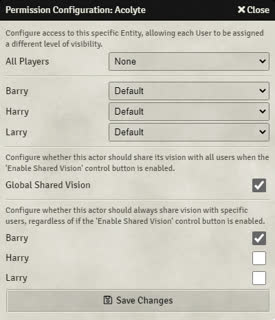
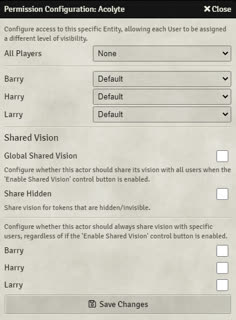
v1.0.3

diff --git a/templates/helpMenu.html b/templates/helpMenu.html
@@ -7,7 +7,7 @@
         <br>
         Besides sharing the vision of all players tokens with all players, you could specify with what player the actor should share its vision. This could be useful if a player controls multiple tokens, such as familiars.<br>
         <br>
-        A control button allows you to easily toggle vision sharing for all players for specified actors (Global Shared Vision). The reasoning behind this is that, when dugeon delving, the player in the back of the marching order will miss out on all the awesome stuff that's happening at the front. The GM might have prepared an awesome cut-scene, with vivid descriptions, but the wizard at the back isn't in the same room yet as the fighter in the front, so the wizard's player is missing out on all the action!<br>
+        A control button allows you to easily toggle vision sharing for all players for specified actors (Global Shared Vision). The reasoning behind this is that, when dungeon delving, the player in the back of the marching order will miss out on all the awesome stuff that's happening at the front. The GM might have prepared an awesome cut-scene, with vivid descriptions, but the wizard at the back isn't in the same room yet as the fighter in the front, so the wizard's player is missing out on all the action!<br>
         Shared Vision allows the GM to press a button, and the vision between specified tokens will be shared with all players, so everyone gets to enjoy the cool stuff at the front.<br>
 
         <h1>Instructions</h1>
@@ -29,8 +29,11 @@
         Below that you'll find a checkbox next to each (non GM) user's name, checking these boxes will always share that actors vision with the specific users, 
         regardless of whether 'Global Shared Vision' is enabled.<br>
         <br>
-        Players do not need to have any permissions in order for the tokens to share their view. This will work if the token is an NPC or even if it is invisible.<br>
-        You could, for example, add invisible tokens to a spot where you want everyone to be able to see.
+        Ticking the 'Share Hidden' checkbox will result in the actor sharing its vision even if the actor's tokens are hidden/invisible.<br>
+        You could, for example, add invisible tokens to a spot where you want everyone to be able to see.<br>
+        <br>
+        Players do not need to have any permissions in order for the tokens to share their view. This will work if the token is an NPC.<br>
+        
 
         <BR CLEAR="right" />
 

diff --git a/src/misc.js b/src/misc.js
@@ -34,6 +34,10 @@ function isVisionSourceOverride() {
 
   let sharedVision = false;
   if (game.user.isGM == false && this.actor != null) {
+    if (this.data.hidden) {
+      if ( (midiQOL && this.actor?.hasPerm(game.user, "OWNER")) == false && this.actor.data.flags.SharedVision?.hidden == false) return false;
+    }
+
     if (game.settings.get(MODULE.moduleName,'enable')) {
       sharedVision = this.actor.data.flags.SharedVision != undefined ? this.actor.data.flags.SharedVision.enable : false; 
     }
@@ -99,15 +103,23 @@ export function onRenderPermissionControl(permissionControl,html){
     if (actor.entity != "Actor") return;
     let btnEnable = actor.getFlag('SharedVision','enable');
     if (btnEnable == undefined) btnEnable = false;
+    let hidden = actor.getFlag('SharedVision','hidden');
     let userSetting = actor.getFlag('SharedVision','userSetting');
   
     let contents = `
       <hr>
-      <p class="notes">${game.i18n.localize("SharedVision.ActorConf.Global.Note")}</p>
+      <h3>Shared Vision</h3>
       <div class="form-group">
         <label>${game.i18n.localize("SharedVision.ActorConf.Global.Label")}</label>
         <input id="sharedVisionButton" type="checkbox" name="sharedVisionButton" data-dtype="Boolean" ${btnEnable ? 'checked' : ''}>
       </div>
+      <p class="notes">${game.i18n.localize("SharedVision.ActorConf.Global.Note")}</p>
+
+      <div class="form-group">
+        <label>${game.i18n.localize("SharedVision.ActorConf.Hidden.Label")}</label>
+        <input id="sharedVisionHiddenButton" type="checkbox" name="sharedVisionHiddenButton" data-dtype="Boolean" ${hidden ? 'checked' : ''}>
+      </div>
+      <p class="notes">${game.i18n.localize("SharedVision.ActorConf.Hidden.Note")}</p>
       <hr>
       <p class="notes">${game.i18n.localize("SharedVision.ActorConf.User.Note")}</p>
       
@@ -143,6 +155,10 @@ export async function onClosePermissionControl(permissionControl,html){
     const btnEnable = html.find("input[name = 'sharedVisionButton']")[0].checked;
 
     await actor.setFlag('SharedVision','enable',btnEnable);
+
+    const hidden = html.find("input[name = 'sharedVisionHiddenButton']")[0].checked;
+
+    await actor.setFlag('SharedVision','hidden',hidden);
 
     let userSetting = [];
     const users = game.users.entities;

diff --git a/sharedvision.js b/sharedvision.js
@@ -1,6 +1,7 @@
 import * as CBUTTONS from "./src/controlButtons.js";
 import * as MISC from "./src/misc.js";
 import * as EXTERNAL from "./src/externalModules.js";
+import * as SOCKET from "./src/socket.js";
 
 export const moduleName = "SharedVision";
 
@@ -10,6 +11,7 @@ Hooks.on('renderPermissionControl', (permissionControl,html,data) =>  { MISC.onR
 Hooks.on('closePermissionControl', (permissionControl,html)       =>  { MISC.onClosePermissionControl(permissionControl,html) });
 Hooks.on('setShareVision',(data)                                  =>  { MISC.onSetShareVision(data) });
 Hooks.on('canvasReady',()                                         =>  { MISC.onCanvasReady() });
+Hooks.on('updateToken',()                                         =>  { SOCKET.emitSharedVision(game.settings.get(moduleName,'enable'))});
 
 Hooks.on('controlToken',(token,controlled)                        =>  { EXTERNAL.triggerHappy_ControlToken(token,controlled) });
 Hooks.on('preUpdateToken',(scene, embedded, update)               =>  { EXTERNAL.triggerHappy_onPreUpdateToken(scene, embedded, update) });

diff --git a/README.md b/README.md
@@ -5,7 +5,7 @@ Shared Vision allows you to configure actors so they will always share their vis
 <br>
 Besides sharing the vision of all players tokens with all players, you could specify with what player the actor should share its vision. This could be useful if a player controls multiple tokens, such as familiars.<br>
 <br>
-A control button allows you to easily toggle vision sharing for all players for specified actors (Global Shared Vision). The reasoning behind this is that, when dugeon delving, the player in the back of the marching order will miss out on all the awesome stuff that's happening at the front. The GM might have prepared an awesome cut-scene, with vivid descriptions, but the wizard at the back isn't in the same room yet as the fighter in the front, so the wizard's player is missing out on all the action!<br>
+A control button allows you to easily toggle vision sharing for all players for specified actors (Global Shared Vision). The reasoning behind this is that, when dungeon delving, the player in the back of the marching order will miss out on all the awesome stuff that's happening at the front. The GM might have prepared an awesome cut-scene, with vivid descriptions, but the wizard at the back isn't in the same room yet as the fighter in the front, so the wizard's player is missing out on all the action!<br>
 Shared Vision allows the GM to press a button, and the vision between specified tokens will be shared with all players, so everyone gets to enjoy the cool stuff at the front.<br>
 
 <h1>Instructions</h1>
@@ -29,8 +29,10 @@ The 'Global Shared Vision' checkbox determines if this actor should share its vi
 Below that you'll find a checkbox next to each (non GM) user's name, checking these boxes will always share that actors vision with the specific users, 
 regardless of whether 'Global Shared Vision' is enabled.<br>
 <br>
-Players do not need to have any permissions in order for the tokens to share their view. This will work if the token is an NPC or even if it is invisible.<br>
-You could, for example, add invisible tokens to a spot where you want everyone to be able to see.
+Ticking the 'Share Hidden' checkbox will result in the actor sharing its vision even if the actor's tokens are hidden/invisible.<br>
+You could, for example, add invisible tokens to a spot where you want everyone to be able to see.<br>
+<br>
+Players do not need to have any permissions in order for the tokens to share their view. This will work if the token is an NPC.<br>
 
 ![permissionConfiguration](https://github.com/CDeenen/SharedVision/blob/master/img/examples/PermissionConfiguration.png)
 
@@ -74,7 +76,8 @@ Shared Vision overrides the default 'Token.prototype._isVisionSource' method whi
 For this reason, <a href="https://foundryvtt.com/packages/lib-wrapper/">libWrapper</a> was implemented.<br>
 <br>
 <a href="https://foundryvtt.com/packages/midi-qol/">Midi QOL</a> has the 'Players control owned hidden tokens' setting that could cause issues. By default it should work fine, but if you have libWrapper installed and Midi QOL is set to a higher priority than Shared Vision, Shared Vision will no longer work.<br>
-
+<br>
+Grape-Juice's Isometric module is currently not compatible, but this will hopefully change soon
 
 <h1>Feedback</h1>
 If you have any suggestions or bugs to report, feel free to submit an <a href="https://github.com/CDeenen/SharedVision/issues">issue</a>, contact me on Discord (Cris#6864), or send me an email: cdeenen@outlook.com.

diff --git a/changelog.md b/changelog.md
@@ -1,4 +1,6 @@
 # Changelog
+### v1.0.3 - 18-02-2021
+-Added setting to the Actor Permission Configuration to enable or disabled vision sharing for hidden/invisible tokens.
 
 ### v1.0.2 - 15-02-2021
 -Fixed issue where the canvas would not load with Shared Vision enabled
